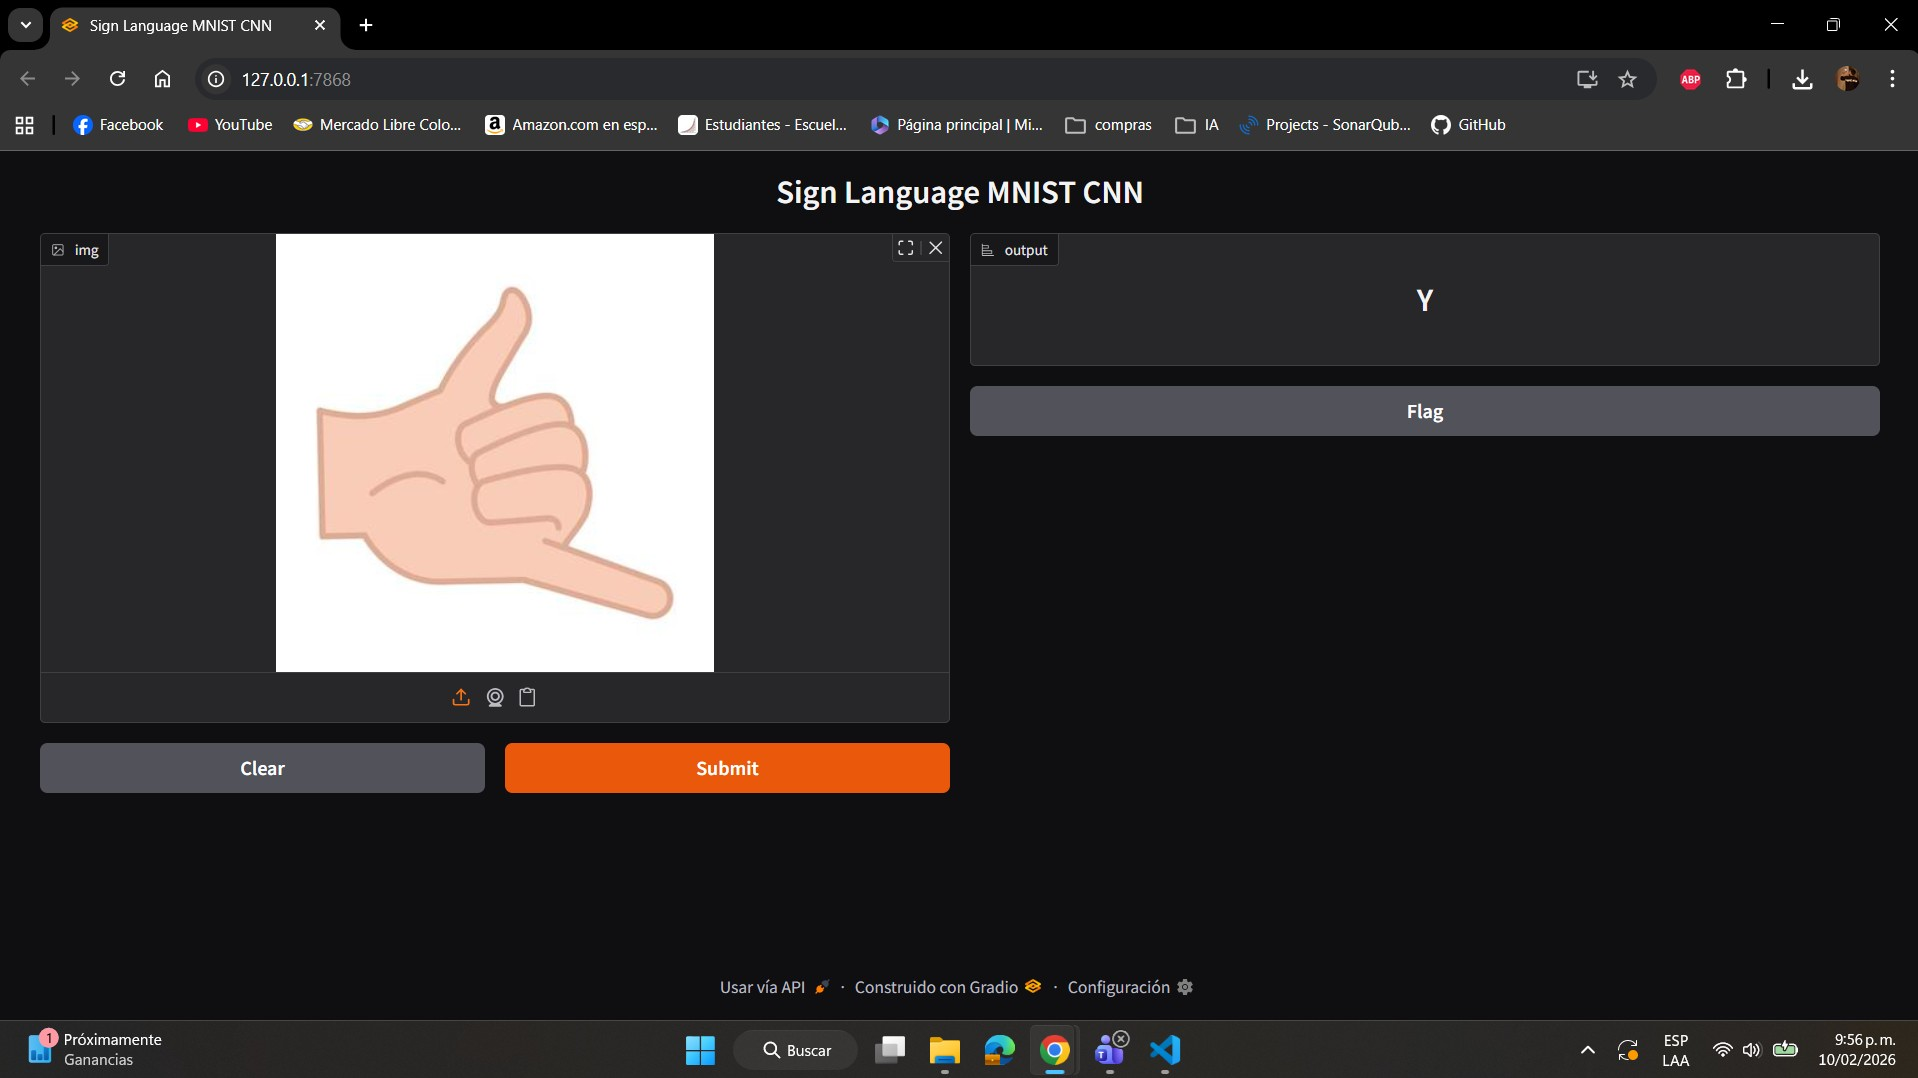
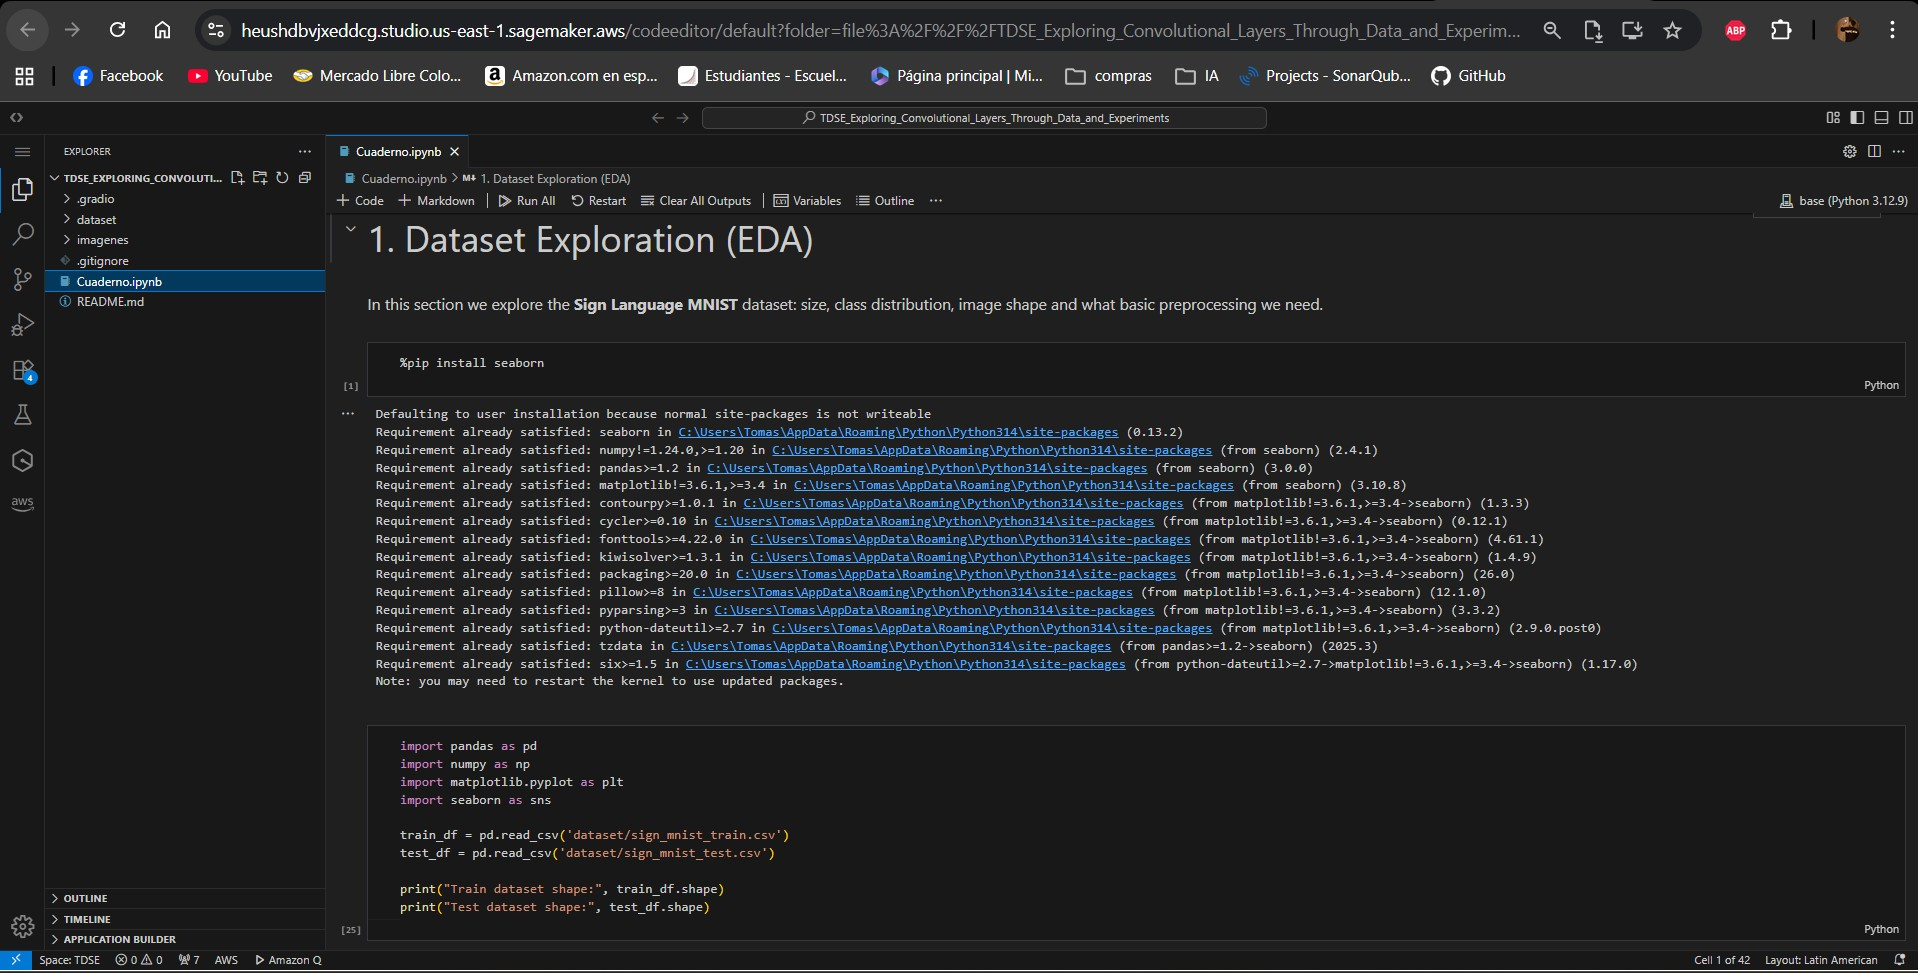
feat: final

diff --git a/README.md b/README.md
@@ -6,6 +6,75 @@ A brief repository containing the `Cuaderno.ipynb` file for exploring, training,
 **Summary**
 - Objective: To compare architectures (3x3 vs. 5x5 kernels), understand filters/activations, and provide an interactive demonstration with Gradio.
 
+## 1. Dataset Exploration (EDA)
+Provide a concise analysis including:
+
+- Dataset size and class distribution
+- Image dimensions and channels
+- Examples of samples per class
+- Any preprocessing needed (normalization, resizing)
+
+The goal is understanding the structure, not exhaustive statistics.
+
+## 2. Baseline Model (Non-Convolutional)
+Implement a baseline neural network without convolutional layers, e.g.:
+- Flatten + Dense layers
+
+Report:
+
+-  Architecture
+- Number of parameters
+- Training and validation performance
+- Observed limitations
+
+This establishes a reference point.
+
+## 3. Convolutional Architecture Design
+Design a CNN from scratch, not copied from a tutorial.
+
+You must explicitly define and justify:
+
+- Number of convolutional layers
+- Kernel sizes
+- Stride and padding choices
+- Activation functions
+- Pooling strategy (if any)
+
+The architecture should be simple but intentional, not deep for its own sake.
+
+## 4. Controlled Experiments on the Convolutional Layer
+Choose one aspect of the convolutional layer and explore it systematically.
+
+Examples (pick one):
+
+- Kernel size (e.g. 3×3 vs 5×5)
+- Number of filters
+- Depth (1 vs 2 vs 3 conv layers)
+- With vs without pooling
+- Effect of stride on feature maps
+
+Keep everything else fixed.
+
+Report:
+
+- Quantitative results (accuracy, loss)
+- Qualitative observations
+- Trade-offs (performance vs complexity)
+
+## 5. Interpretation and Architectural Reasoning
+Answer in your own words:
+
+- Why did convolutional layers outperform (or not) the baseline?
+- What inductive bias does convolution introduce?
+- In what type of problems would convolution not be appropriate?
+
+This section is graded heavily.
+
+## 6. Deployment in Sagemaker
+
+- Train the model in Sagemaker
+- Deploy the model to a sagemaker endpoint
+----
 **Key Content**
 - Notebook: `Cuaderno.ipynb` — EDA, models (baseline and CNN), controlled experiments, and visualization of filters/activations.
 
@@ -17,7 +86,22 @@ A brief repository containing the `Cuaderno.ipynb` file for exploring, training,
 ```bash
 pip install torch torchvision pandas matplotlib seaborn pillow gradio scikit-learn
 ```
-**Evidencias**
+**conclusions**
+- Model performance: The CNN clearly outperforms the baseline and achieves high accuracy in validation; the model learns hand shapes robustly.
+- Kernel size: The 3×3 vs. 5×5 experiment showed that 5×5 does not provide significant improvement and adds complexity; 3×3 is more efficient.
+- Robustness and diagnostics: Consistent preprocessing (resize/grayscale) and diagnostic tools (top-3 probabilities, filter visualization) are key to detecting confounding and guiding upgrades or reprocessing.
 
+**Evidencias**
+# training and seasons
+- ![alt text](imagenes/2.jpg) 
+- ![alt text](imagenes/3.jpg) 
+- ![alt text](imagenes/4.jpg) 
+- ![alt text](imagenes/5.jpg) 
+## bond
+- ![alt text](imagenes/7.jpg) 
+- ![alt text](imagenes/8.jpg)
+
+## deployment
+- ![alt text](imagenes/9.jpg)
 - ![alt text](imagenes/2.jpg)
 ---
